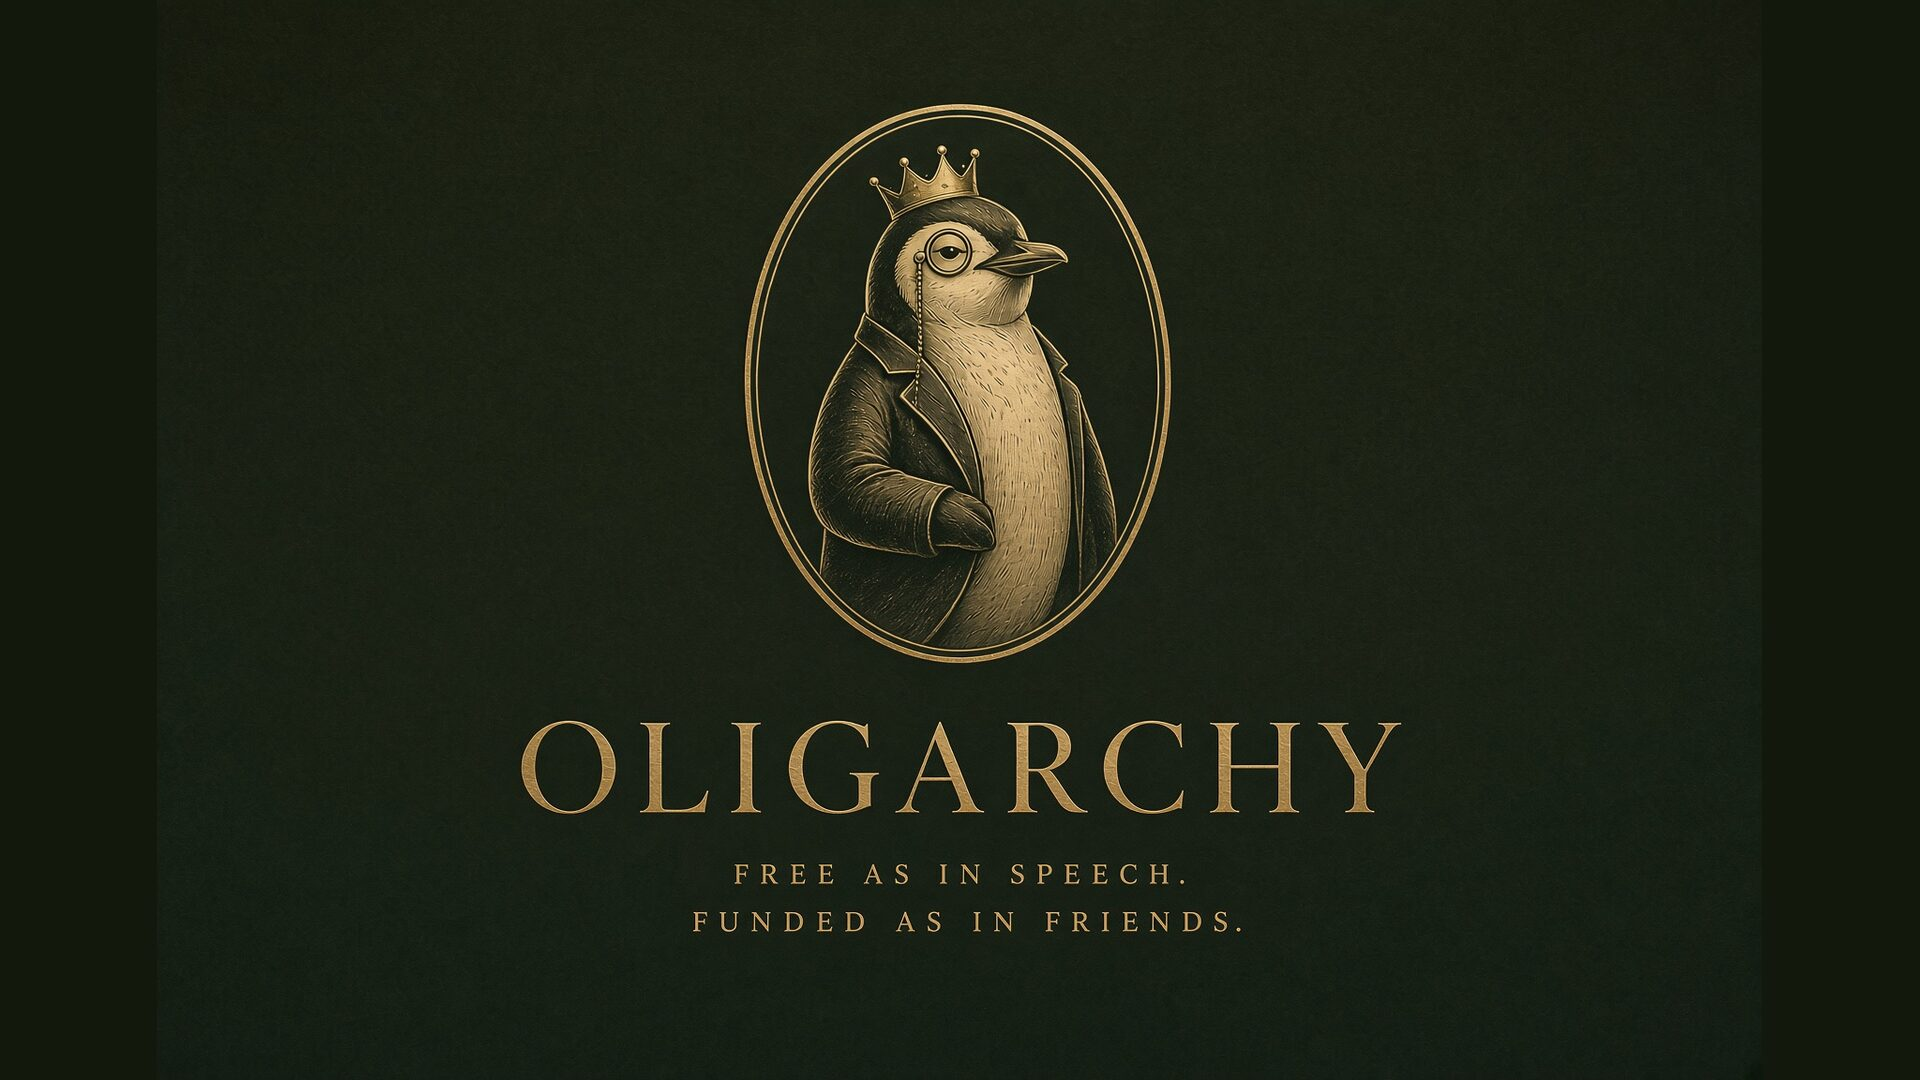
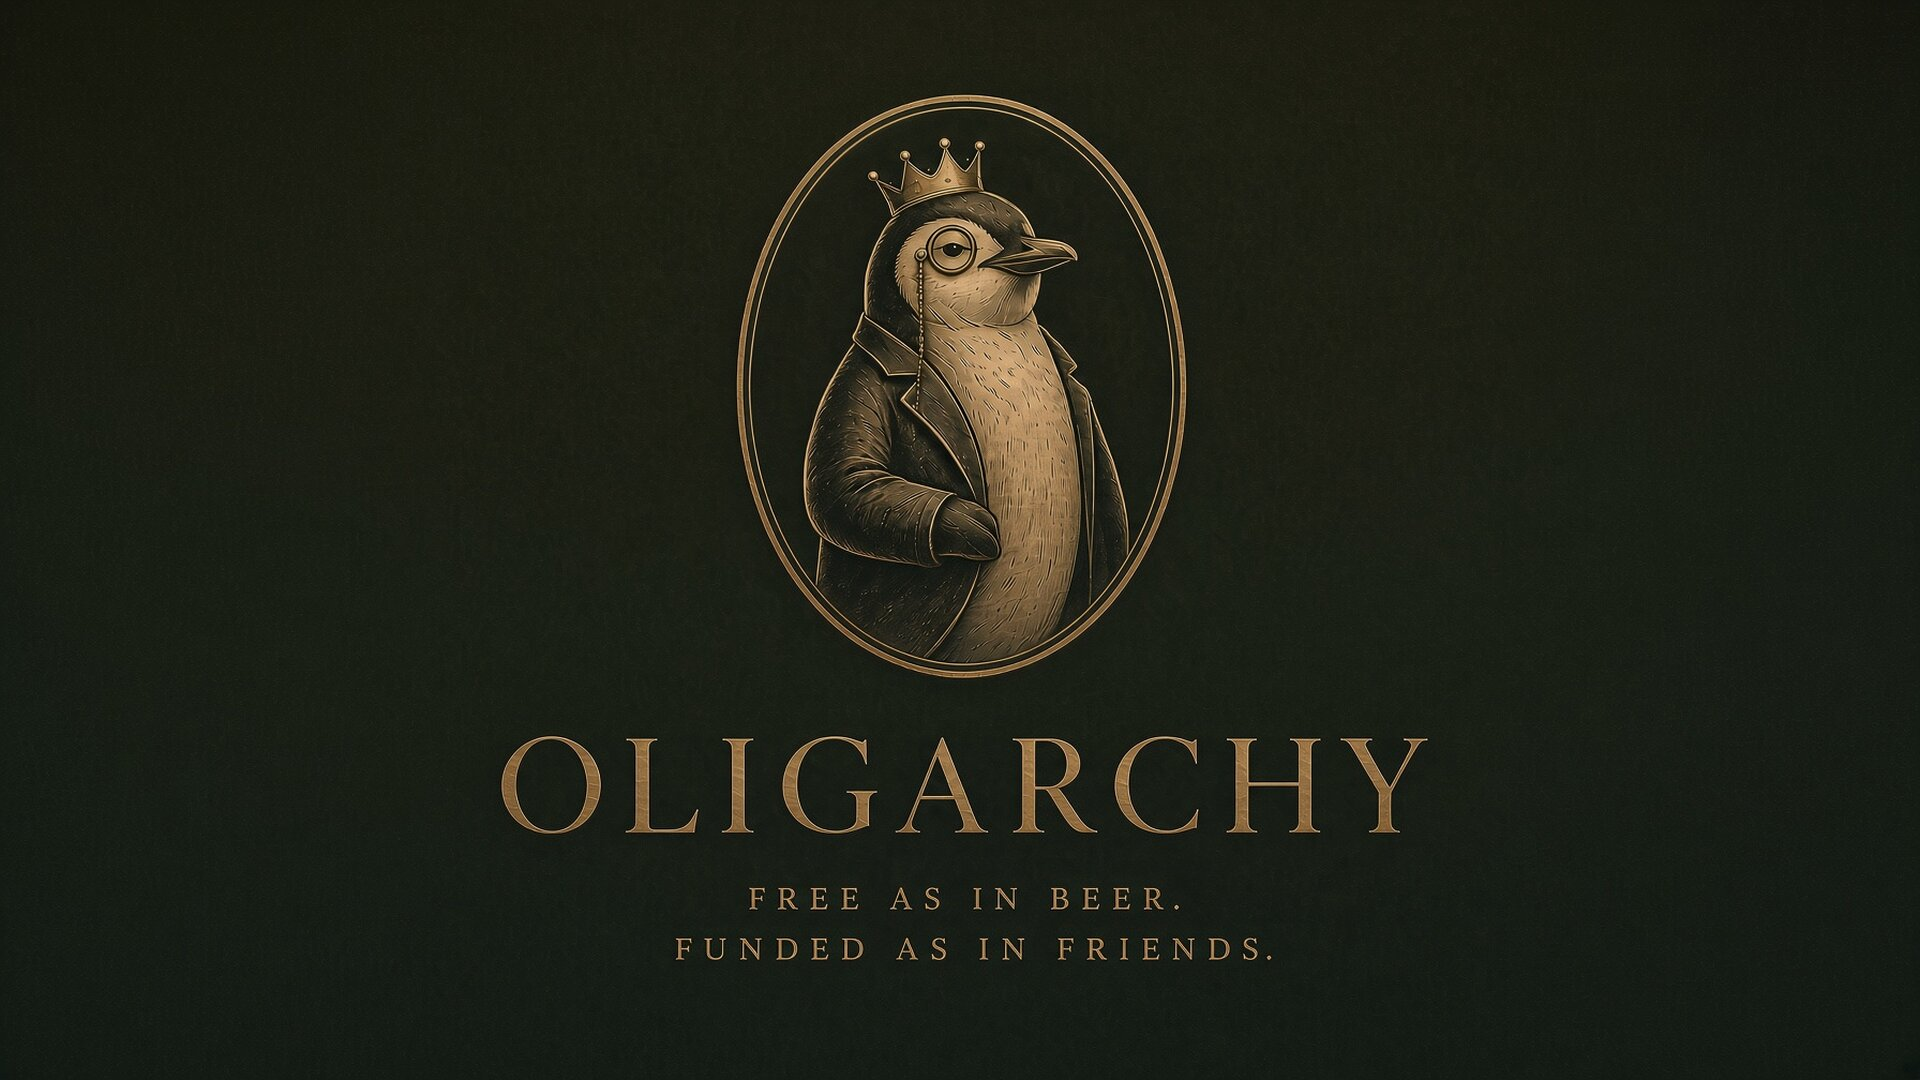
Use the 16:9 penguin poster as the shipped wallpaper
Keep ultrawide letterboxing on this machine only, not in the theme.

Changed region(s): [[0.375, 0.0917, 0.625, 0.6417], [0.25, 0.6722, 0.75, 0.8861]]

diff --git a/README.md b/README.md
@@ -50,7 +50,7 @@ Restart the apps to pick it up. The symlinks track whichever theme is applied.
 
 | File | |
 | --- | --- |
-| `0-penguin.webp` | Crowned penguin. Free as in speech. Funded as in friends. |
+| `0-penguin.webp` | Crowned penguin. Free as in beer. Funded as in friends. |
 | `1-library.webp` | Private library, green banker's lamp |
 | `2-circuit.webp` | Empty night circuit after rain |
 | `3-boardroom.webp` | Dark marble table, gold ring light |
